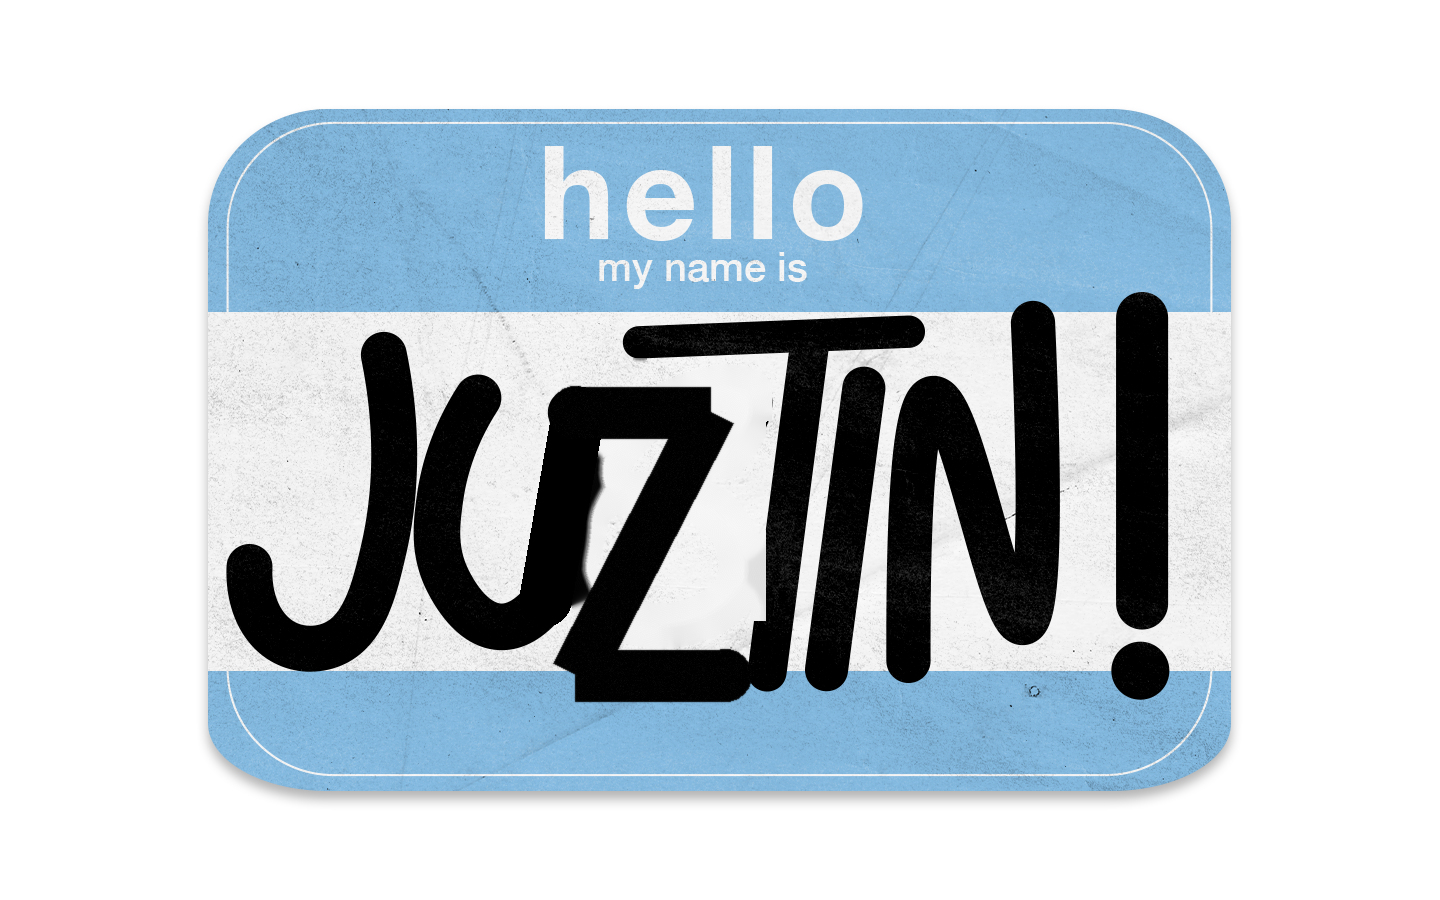
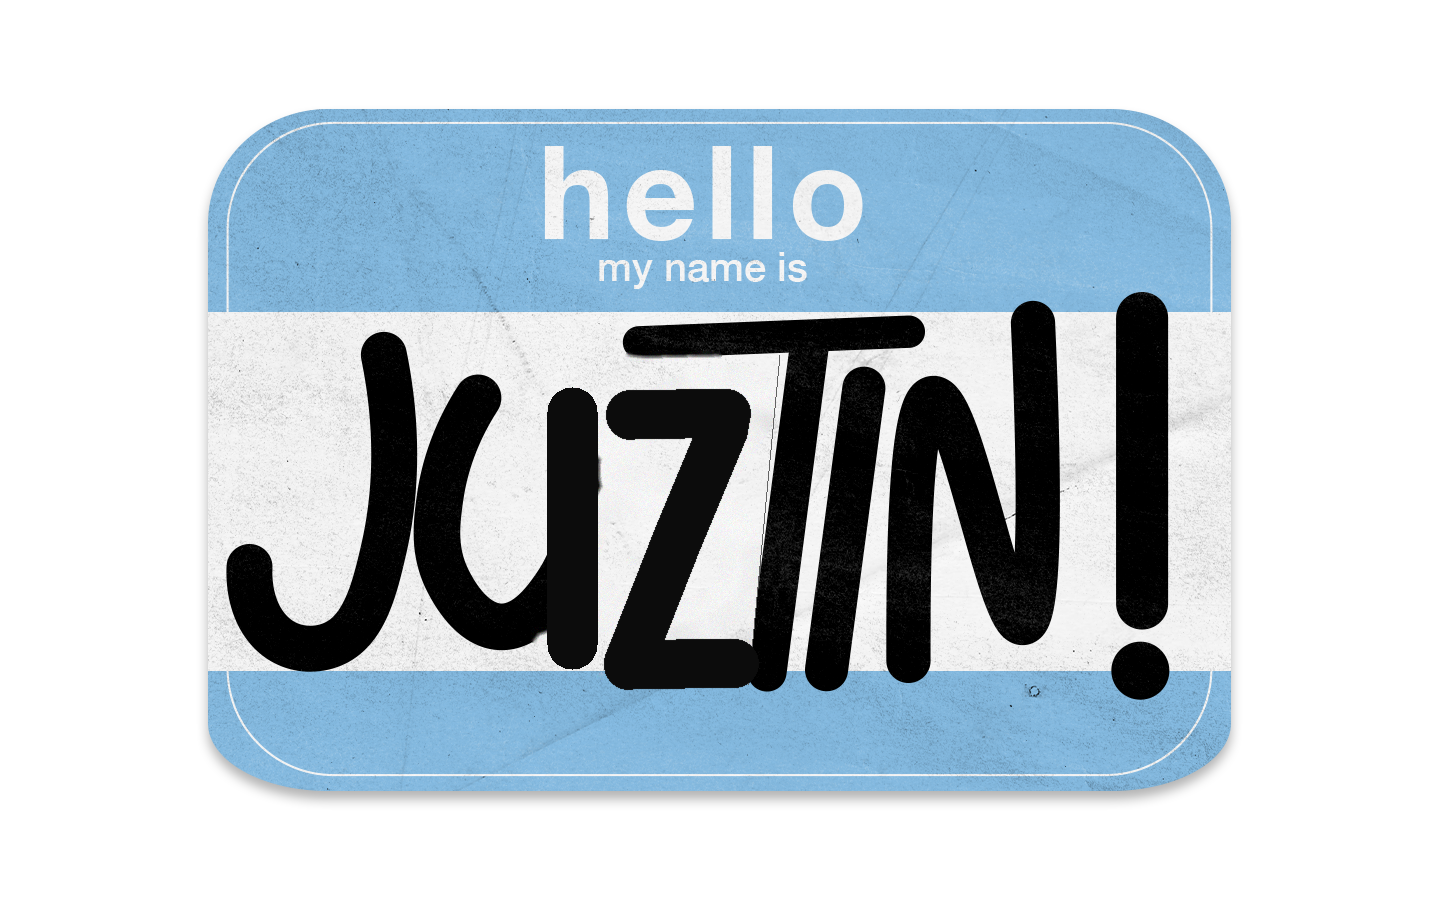
feat: authentic vintage card textures with organic graffiti JUZTIN! and handwritten roles (Photographer, Architecture Student, Storyteller)

Changed region(s): [[0.3438, 0.3733, 0.5312, 0.8089]]

diff --git a/src/components/NametagHeroCard.tsx b/src/components/NametagHeroCard.tsx
@@ -121,7 +121,7 @@ export const NametagHeroCard: React.FC = () => {
         className="absolute w-[290px] xs:w-[340px] sm:w-[420px] md:w-[460px] aspect-[1.6/1] z-10 filter drop-shadow-[0_18px_36px_rgba(74,36,8,0.22)]"
       >
         <img
-          src="/card-nametag-brown.png"
+          src="/card-nametag-brown.png?v=3"
           alt="i am a... Photographer, Architecture Student, Storyteller"
           loading="eager"
           decoding="async"
@@ -143,7 +143,7 @@ export const NametagHeroCard: React.FC = () => {
         className="relative w-[290px] xs:w-[340px] sm:w-[420px] md:w-[460px] aspect-[1.6/1] z-20 filter drop-shadow-[0_20px_42px_rgba(0,0,0,0.22)]"
       >
         <img
-          src="/card-nametag-blue.png"
+          src="/card-nametag-blue.png?v=3"
           alt="hello my name is JUZTIN!"
           loading="eager"
           decoding="async"
